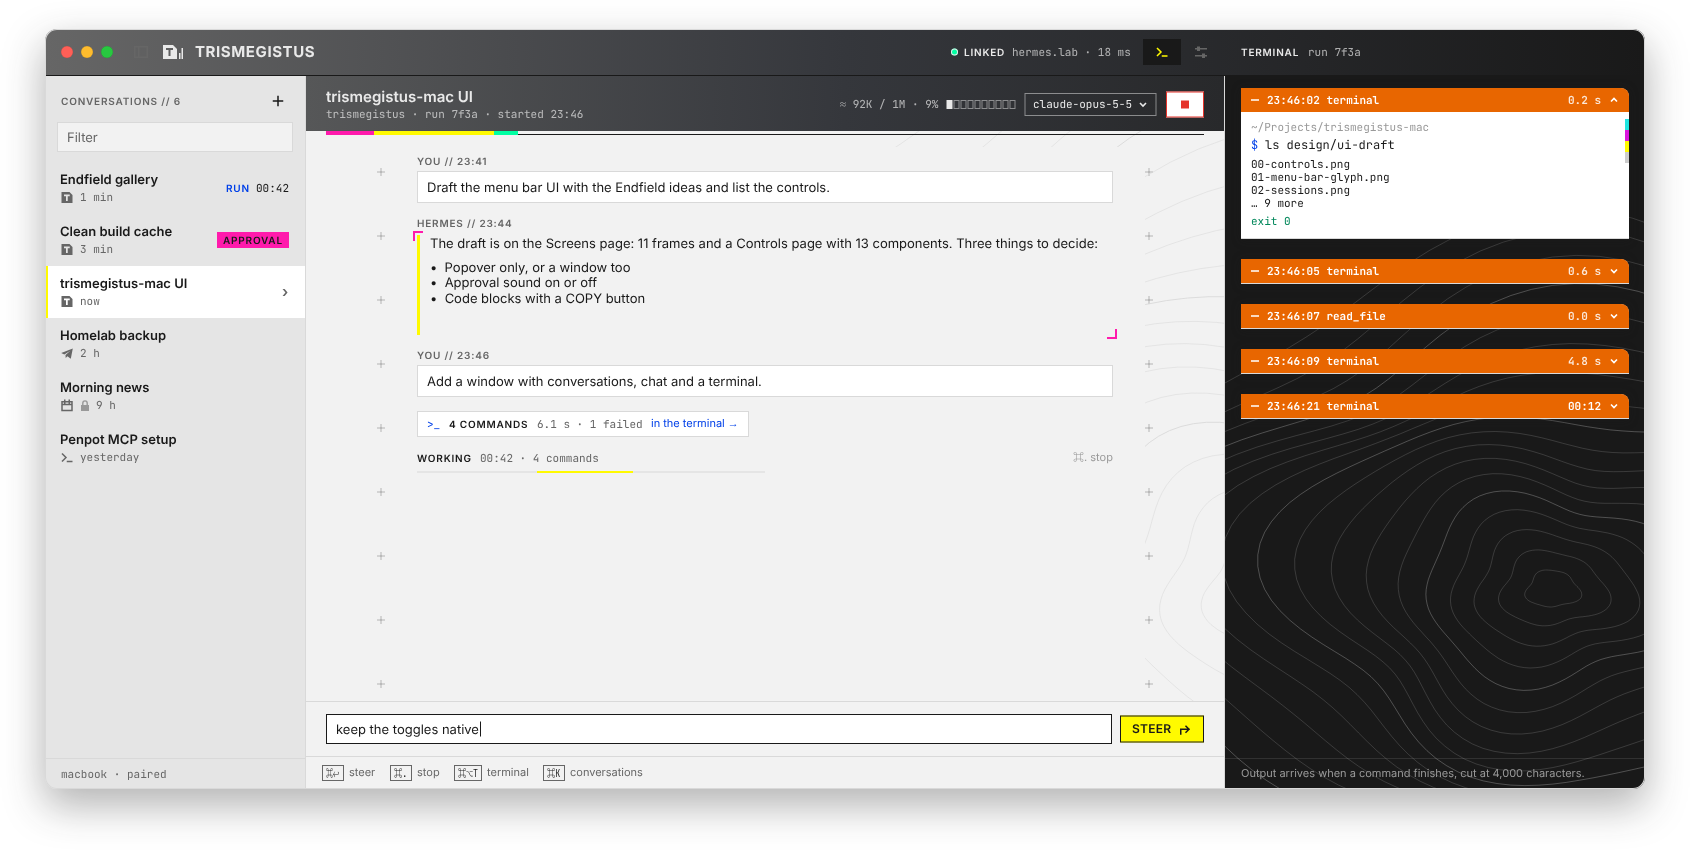
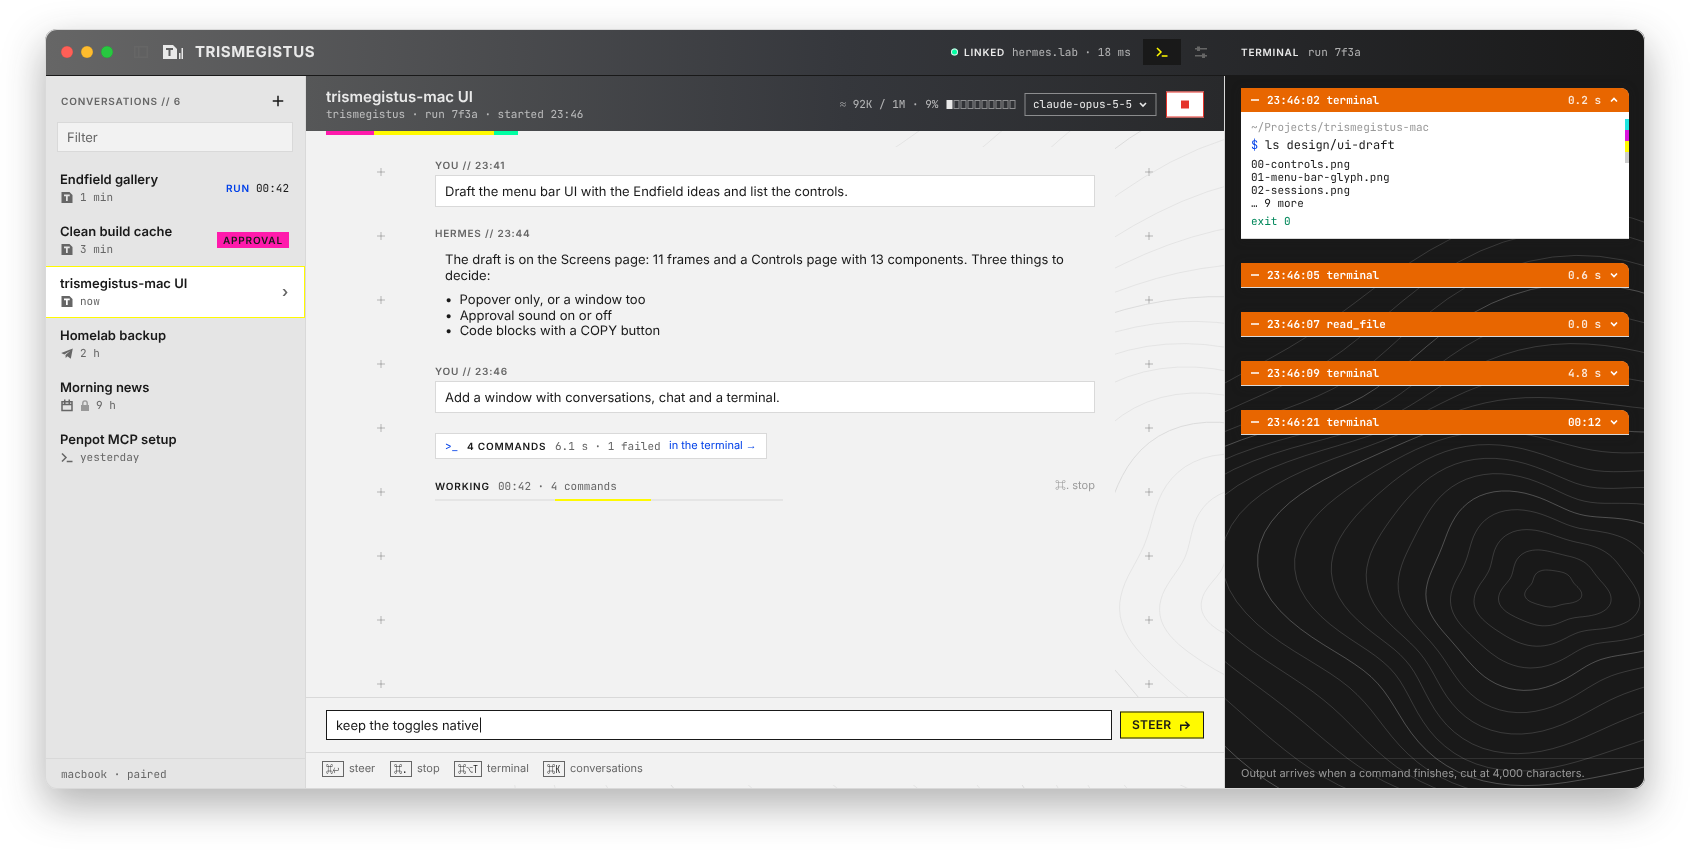
Design: 07c with Martin's arrangements
Refreshed PNG: selected row with a yellow border, 700 pt message column, plain Hermes messages, no
hairline, 24 pt between terminal cards.

Refs #32

Changed region(s): [[0.2462, 0.1835, 0.6462, 0.5812], [0.7385, 0.3059, 0.9846, 0.52], [0.1846, 0.8259, 0.7077, 0.9176]]

diff --git a/design/ui-draft/README.md b/design/ui-draft/README.md
@@ -6,6 +6,6 @@ PNG exports of the Penpot draft (file "New File 1" in Penpot's Drafts project; i
 - `01`-`06`: the screens from #5: menu bar glyph, popover session list (+ empty, reconnecting), chat (+ run active with the steer offer), approval (in chat, native notification), pairing (+ expired code), settings
 - `07-window.png`: the main window: conversations | chat | terminal (decided 2026-10-31, #4.1)
 - `07b-window-live.png`: the same window as the app draws it on 2026-10-31 (Penpot file "Trismegistus-mac", frame "07b window, live", 1600 wide): the steel top bar (`#666666` → `#35373C` → `#191919`, light text, the context meter and model menu on it, the terminal's title above the pane), the Endfield paper (0.5 pt crosses every 96×64 pt, contour lines) beside the 760 pt message column, and the ink terminal pane with `sunken` contours and orange item cards (folded by default, accent column, rounded top-right corner) (#29, #30, #31)
-- `07c-window-proposed.png`: the proposal for #32 (frame "07c window, proposed"): one plain `sunken` sidebar (rows on the ground, selected row white with the yellow bar, meta text `secondary`), the title rule plus an ink hairline under the conversation header, 32 pt chat margins, magenta 2 pt corner markers (┌ ┘) on Hermes's messages, 20 pt between terminal cards; subtitle and key hints as in the draft
+- `07c-window-proposed.png`: the agreed design for #32 (frame "07c window, proposed", with Martin's arrangements): our own flat `sunken` sidebar (selected row white with a 1 pt yellow border, meta text `secondary`), the toolbar across the whole window, the title rule (no hairline) under the conversation header with its subtitle, a 700 pt message column with 20 pt between messages, Hermes's messages as plain inset text, key hints under the input, 24 pt between terminal cards
 
 These are a review artifact, not assets: the app draws everything in SwiftUI.
